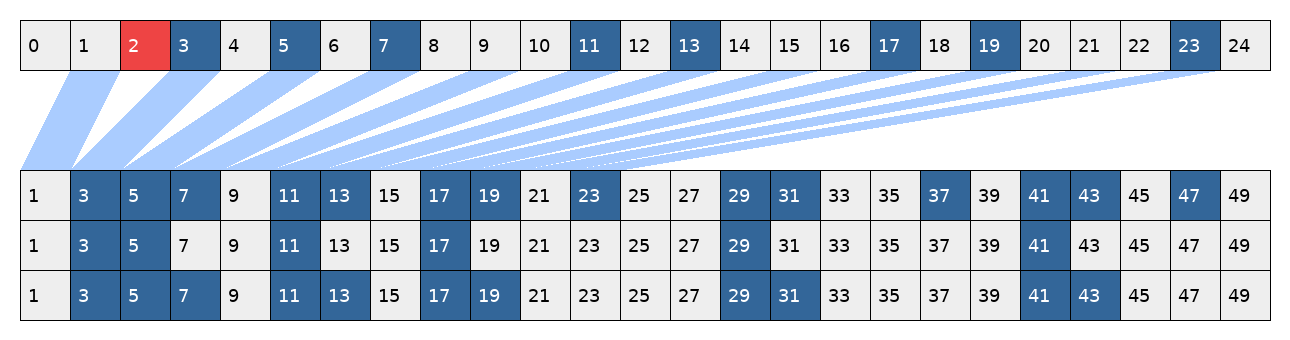
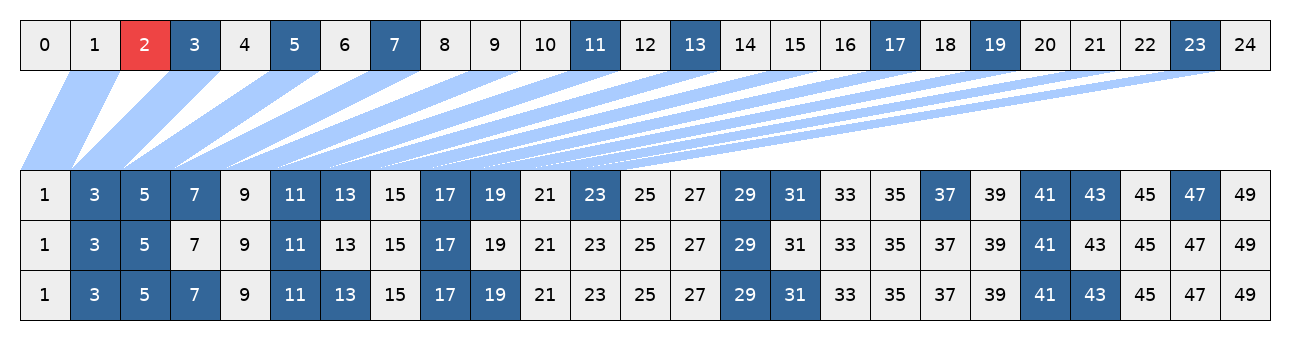
use anchor

diff --git a/twin/draw.py b/twin/draw.py
@@ -13,8 +13,8 @@ def draw_bitarray(a, size, imap=lambda i: i):
         dr.rectangle([(i * size, 0), ((i+1) * size, size)],
                      fill='#e44' if i == 2 == imap(2) else colors[v],
                      outline="#000")
-        dr.text(((i + 0.15) * size, 0.3 * size),
-                str(imap(i)),
+        dr.text(((i + 0.5) * size, 0.5 * size),
+                str(imap(i)), anchor="mm",
                 fill=colors[v + 2], font=font)
     return im
 
